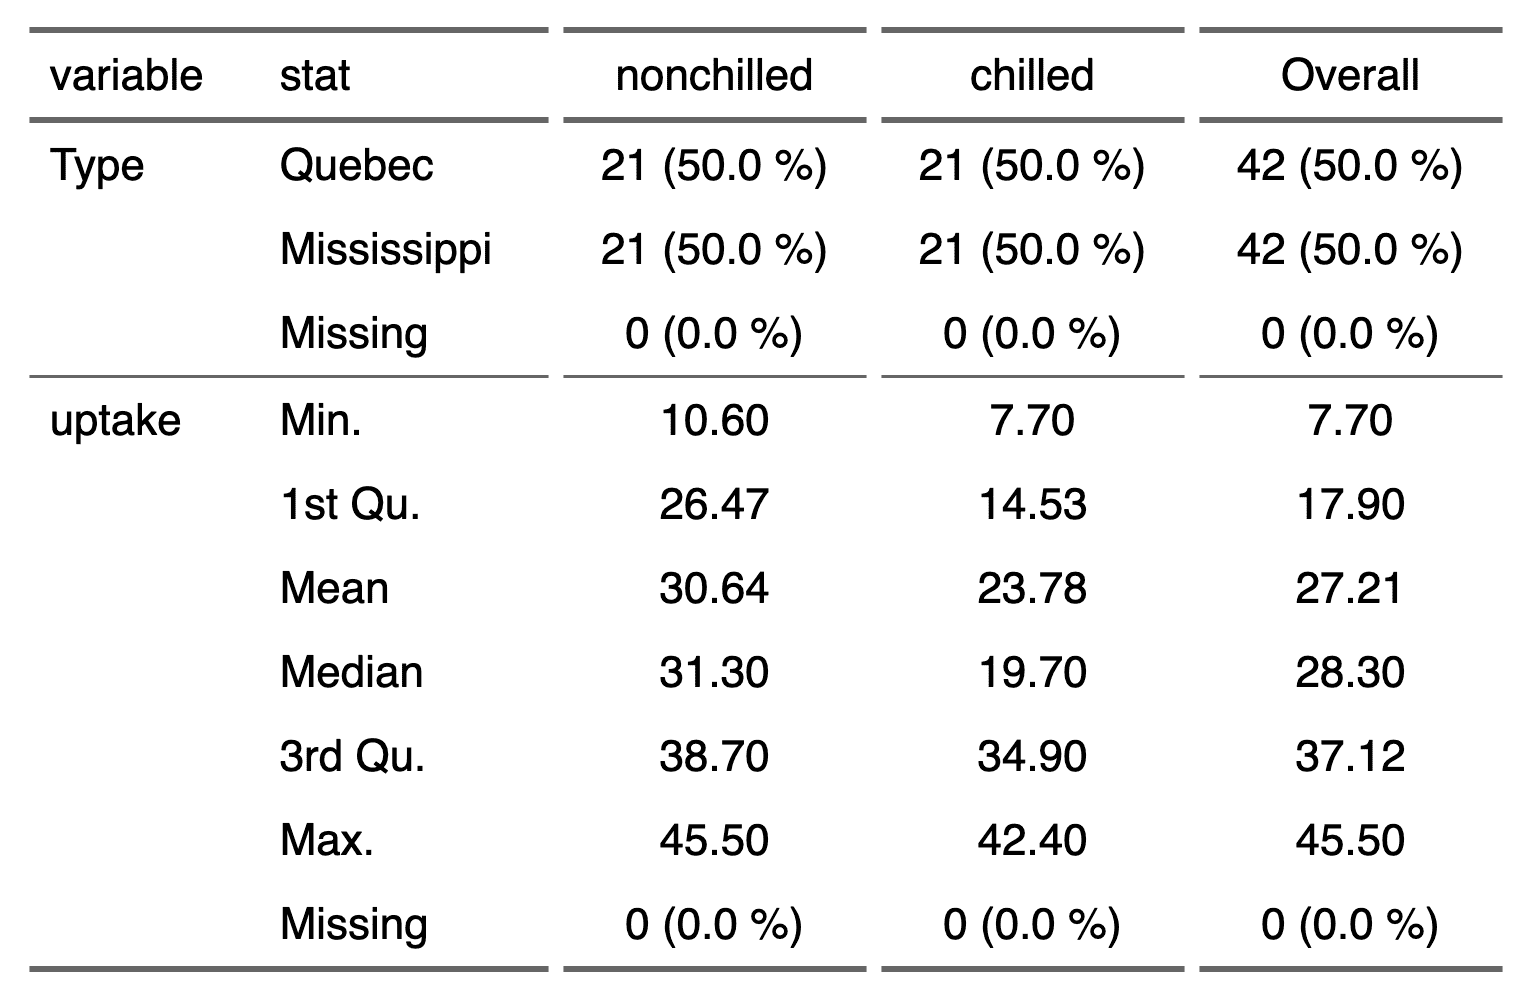
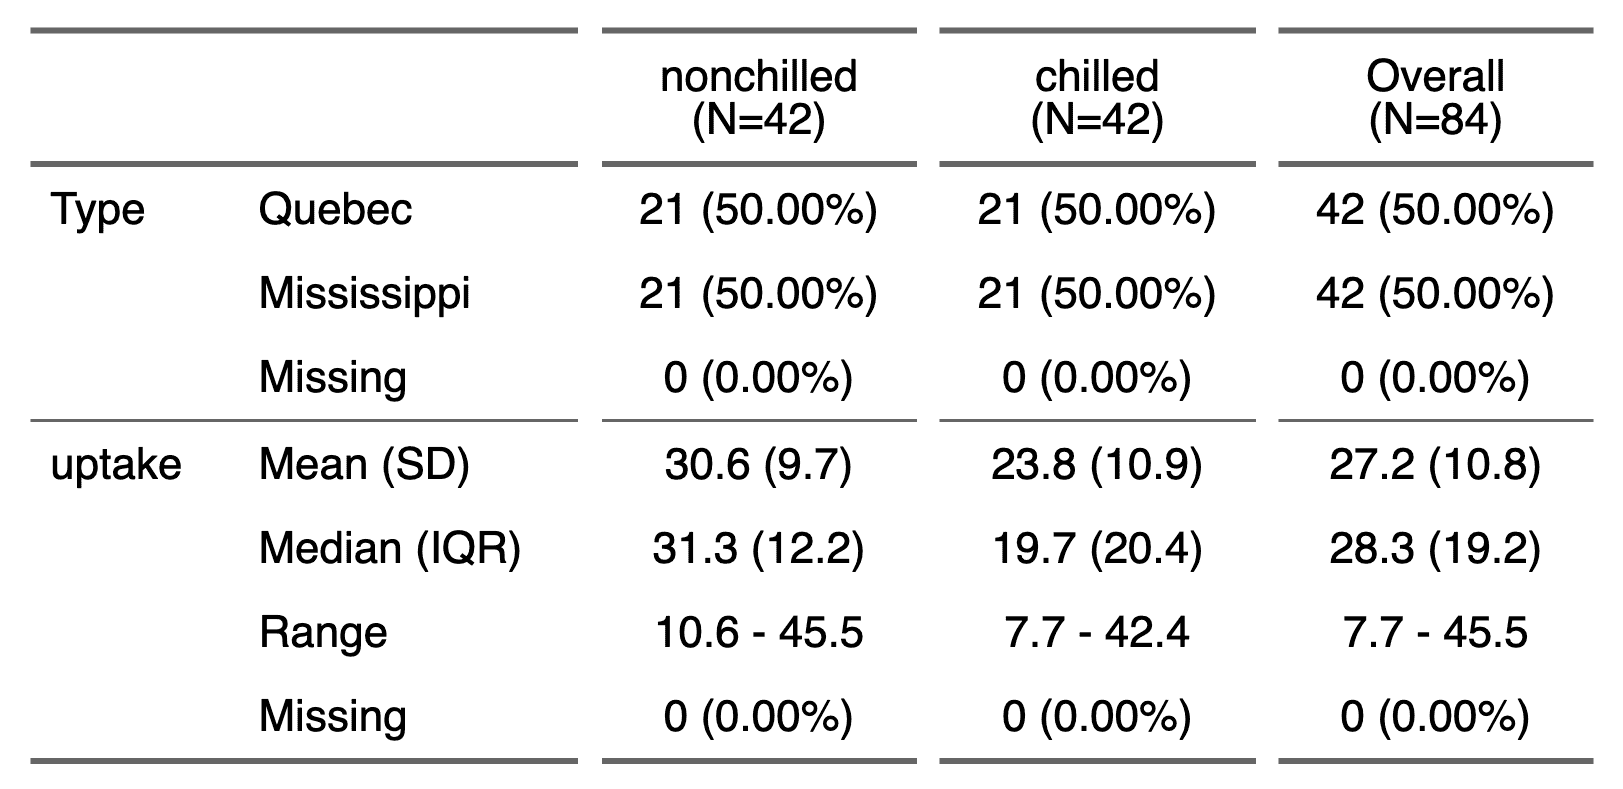
internals: add use_labels and n_by attributes
- use_labels a list containing labels by columns
- n_by, a data.frame used to add N=xxx when possible

diff --git a/NEWS.md b/NEWS.md
@@ -5,7 +5,8 @@
 - new argument `expand_single` in `as_grouped_data()`. If FALSE, groups with only one
 row will not be expanded with a title row.
 - new functions `fmt_avg_dev()`, `fmt_header_n()`, `fmt_n_percent()` and renaming of `fmt_2stats()` 
-to `fmt_summarizor()` to help working with `tabulator()`.
+to `fmt_summarizor()` to help working with `tabulator()`. `tabulator()` has also new
+internal values that allow N=xxx notes and automatic labels.
 - function `set_table_properties()` is now the recommanded way to set
 arguments related to format options and alignment in a document. It is
 supposed to replace "knitr" chunk options `ft.align`, `ft.split`,
